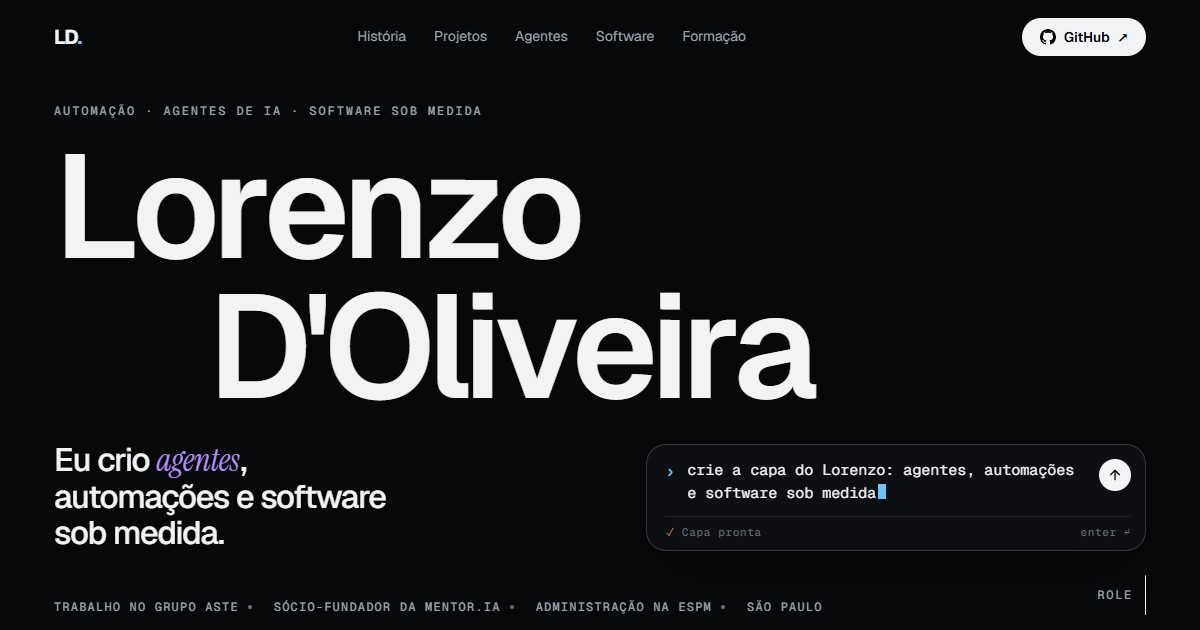
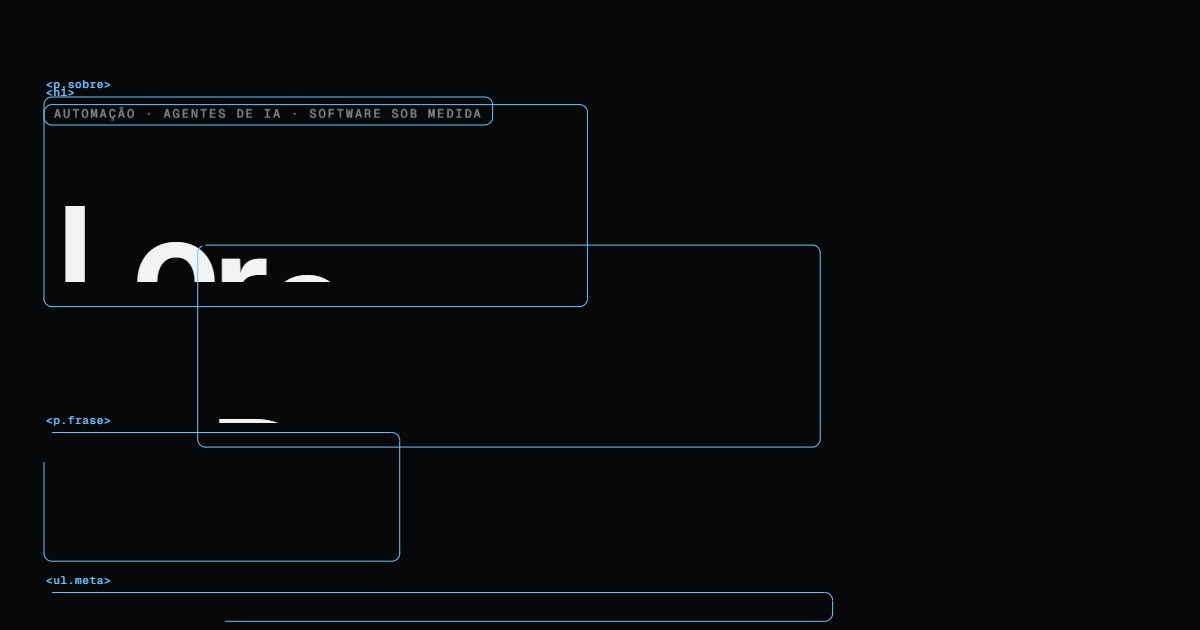
Capa sem a barra de prompt e cenas presas também em janela baixa
- A capa fica só com nome, frase e a linha de baixo
- No computador, as cenas prendem a rolagem a partir de 440px de altura
- Imagem de compartilhamento nova

diff --git a/js/main.js b/js/main.js
@@ -11,10 +11,10 @@
   const tem = (nome) => Boolean(window[nome]);
   const limitar = (valor, min = 0, max = 1) => Math.min(max, Math.max(min, valor));
   const SIMBOLOS = '01<>/{}#_=+';
-  // Cenas presas na rolagem só quando a tela tem altura para isso. Em tela baixa (celular
-  // deitado), a mesma animação acompanha a rolagem sem prender.
-  const ALTA = '(min-height: 561px)';
-  const BAIXA = '(max-height: 560px)';
+  // Cenas presas na rolagem: no computador a partir de 440px de altura (janela baixa também
+  // prende); no celular a partir de 561px. Abaixo disso a animação acompanha a rolagem sem prender.
+  const ALTA = '(min-width: 900px) and (min-height: 440px), (min-height: 561px)';
+  const BAIXA = '(max-height: 439px), (max-width: 899px) and (max-height: 560px)';
 
   // Cada bloco roda isolado: se um quebrar, o resto da página continua.
   function rodar(nome, fn) {
@@ -225,26 +225,12 @@
   }
 
   /* =========================================================================
-     CAPA: um pedido se digita na barra de prompt e, ao enviar, a página monta
-     o resto da capa (moldes em linha que viram o conteúdo de verdade).
+     CAPA: moldes em linha se desenham onde cada parte vai ficar e o conteúdo
+     de verdade sobe dentro deles.
      ========================================================================= */
   function capa() {
     const palco = $('.capa__palco');
-    const prompt = $('.prompt');
-    const digitado = $('.prompt__digitado');
-    const estado = $('.prompt__estado-texto');
-    const giro = $('.prompt__giro');
-    const enviar = $('.prompt__enviar');
     const molde = $('.capa__molde');
-    const pedido = digitado.textContent;
-    // Placeholder que gira depois de pronta (base: "AI Prompt Input" do 21st.dev)
-    const SUGESTOES = [
-      'automatize o contas a pagar',
-      'monte um time de agentes de marketing',
-      'atualize o relatório às 02:00',
-      'lance os boletos no ERP com 8 travas',
-      'crie um software sob medida',
-    ];
     if (reduzir) return;
 
     // Rolagem: a capa vira um cartão que recua enquanto a história sobe por cima
@@ -293,59 +279,19 @@
     const retangulos = $$('rect', molde);
     const rotulos = $$('text', molde);
 
-    // Indicador de "pensando" do Claude Code
-    const GIROS = ['·', '✢', '✳', '✶', '✻', '✽', '✻', '✶', '✳', '✢'];
-    let giroAtivo = null;
-    const girar = (ligar) => {
-      clearInterval(giroAtivo);
-      if (!ligar) return;
-      let i = 0;
-      giroAtivo = setInterval(() => { giro.textContent = GIROS[i++ % GIROS.length]; }, 110);
-    };
-
-    // Estado inicial: só a barra de prompt, no meio da tela
-    const caixa = prompt.getBoundingClientRect();
-    const escala = window.innerWidth >= 900 ? 1.12 : 1;
-    const dx = window.innerWidth / 2 - (caixa.left + caixa.width / 2);
-    const dy = window.innerHeight / 2 - (caixa.top + caixa.height / 2);
+    // Estado inicial: tudo escondido; os moldes se desenham e o conteúdo sobe dentro deles
     const letras = nome.map((s) => s.chars);
     gsap.set(letras.flat(), { yPercent: 118 });
     gsap.set(frase.words, { yPercent: 110 });
     gsap.set(['.capa__sobre', '.capa__meta li', '.capa__rolar', '.topo > *'], { autoAlpha: 0, y: 16 });
-    gsap.set(prompt, { x: dx, y: dy, scale: escala });
     gsap.set(retangulos, { drawSVG: '0%' });
     gsap.set(rotulos, { autoAlpha: 0 });
-    prompt.classList.add('prompt--vazio');
-    digitado.textContent = '';
-    estado.textContent = 'Claude Code';
 
-    const contador = { n: 0 };
-    const tDigitar = pedido.length * 0.026;
-    const tEnviar = 0.55 + tDigitar + 0.25;
-    const tMontar = tEnviar + 0.55;
+    const tMontar = 0.55;
     const entrada = gsap.timeline({ delay: 0.25, defaults: { ease: EASE } });
     entrada
-      .fromTo(prompt, { autoAlpha: 0 }, { autoAlpha: 1, duration: 0.6 }, 0)
-      .fromTo(prompt, { y: dy + 26 }, { y: dy, duration: 0.9 }, 0)
-      .to(contador, {
-        n: pedido.length,
-        duration: tDigitar,
-        ease: 'none',
-        onUpdate: () => {
-          digitado.textContent = pedido.slice(0, Math.round(contador.n));
-          prompt.classList.toggle('prompt--vazio', contador.n < 1);
-        },
-      }, 0.55)
-      .to(enviar, { scale: 0.78, duration: 0.12, ease: 'power2.in' }, tEnviar - 0.1)
-      .to(enviar, { scale: 1, duration: 0.6, ease: 'back.out(3)' }, tEnviar + 0.02)
-      .add(() => {
-        prompt.classList.add('prompt--enviado');
-        estado.textContent = 'Montando a capa…';
-        girar(true);
-      }, tEnviar)
-      .to(retangulos, { drawSVG: '100%', duration: 0.75, stagger: 0.07, ease: 'power2.inOut' }, tEnviar + 0.1)
-      .to(rotulos, { autoAlpha: 1, duration: 0.25, stagger: 0.07 }, tEnviar + 0.15)
-      .to(prompt, { x: 0, y: 0, scale: 1, duration: 1.4 }, tMontar)
+      .to(retangulos, { drawSVG: '100%', duration: 0.75, stagger: 0.07, ease: 'power2.inOut' }, 0.1)
+      .to(rotulos, { autoAlpha: 1, duration: 0.25, stagger: 0.07 }, 0.15)
       .to('.capa__sobre', { autoAlpha: 1, y: 0, duration: 0.9 }, tMontar + 0.1)
       .to(letras[0], { yPercent: 0, duration: 1.2, stagger: 0.035 }, tMontar + 0.15)
       .to(letras[1], { yPercent: 0, duration: 1.2, stagger: 0.035 }, tMontar + 0.3)
@@ -355,54 +301,15 @@
       .to(retangulos, { autoAlpha: 0, duration: 0.6, stagger: 0.05, ease: 'power1.out' }, tMontar + 1.0)
       .to(rotulos, { autoAlpha: 0, duration: 0.4 }, tMontar + 1.0)
       .add(() => {
-        girar(false);
-        giro.textContent = '✓';
-        estado.textContent = 'Capa pronta';
-        prompt.classList.remove('prompt--enviado');
-      }, tMontar + 1.3)
-      .add(() => {
         // Desfaz as divisões: o texto volta a ter o espaçamento original das letras
         nome.forEach((s) => s.revert());
         frase.revert();
         gsap.set(linhas, { clearProps: 'overflow,paddingTop,marginTop,paddingBottom,marginBottom' });
         molde.remove();
-      }, tMontar + 2.2)
-      .add(sugestoes, tMontar + 3.4);
+      }, tMontar + 2.2);
 
     // Se a página abriu no meio (voltou de outra página), a capa já aparece pronta
     if (window.scrollY > 40) entrada.progress(1);
-
-    function sugestoes() {
-      giro.textContent = '✻';
-      estado.textContent = 'Feito com Claude Code';
-      const lista = [...SUGESTOES, pedido];
-      const ciclo = gsap.timeline({ repeat: -1 });
-      lista.forEach((texto, i) => {
-        const antes = i === 0 ? pedido : lista[i - 1];
-        const apagar = { n: antes.length };
-        const escrever = { n: 0 };
-        ciclo
-          .to(apagar, {
-            n: 0,
-            duration: Math.min(0.7, antes.length * 0.014),
-            ease: 'none',
-            delay: 2.4,
-            onUpdate: () => { digitado.textContent = antes.slice(0, Math.round(apagar.n)); },
-          })
-          .to(escrever, {
-            n: texto.length,
-            duration: texto.length * 0.034,
-            ease: 'none',
-            onUpdate: () => { digitado.textContent = texto.slice(0, Math.round(escrever.n)); },
-          }, '+=0.3');
-      });
-      // Só gira com a capa na tela
-      ScrollTrigger.create({
-        start: 0,
-        end: () => window.innerHeight,
-        onToggle: (self) => (self.isActive ? ciclo.resume() : ciclo.pause()),
-      });
-    }
   }
 
   /* =========================================================================

diff --git a/css/estilo.css b/css/estilo.css
@@ -296,13 +296,7 @@ code { font-family: var(--mono); }
 }
 .capa__linha { display: block; white-space: nowrap; }
 .capa__linha--2 { padding-left: 1.05em; }
-.capa__base {
-  display: grid;
-  grid-template-columns: 1fr minmax(320px, 500px);
-  align-items: end;
-  gap: 28px 56px;
-  margin-top: clamp(28px, 5vh, 52px);
-}
+.capa__base { margin-top: clamp(28px, 5vh, 52px); }
 .capa__frase {
   max-width: 17ch;
   font-size: clamp(24px, 2.7vw, 42px);
@@ -365,79 +359,16 @@ code { font-family: var(--mono); }
 .capa__molde text { font: 500 11px var(--mono); fill: var(--azul); letter-spacing: 0.06em; }
 .capa__sombra { position: absolute; inset: 0; z-index: 4; background: #000; opacity: 0; pointer-events: none; }
 
-/* Barra de prompt no estilo Claude Code (base: "AI Prompt Input" do 21st.dev) */
-.prompt {
-  position: relative;
-  z-index: 5;
-  display: block;
-  width: 100%;
-  justify-self: end;
-  padding: 14px 14px 12px 18px;
-  border: 1px solid var(--linha-forte);
-  border-radius: 20px;
-  background: #0d0f12;
-  box-shadow: 0 24px 60px -30px rgba(0, 0, 0, 0.9);
-  transition: border-color 0.4s;
-}
-.prompt:hover { border-color: rgba(108, 196, 255, 0.55); }
-.prompt__caixa { display: flex; align-items: flex-start; gap: 12px; }
-.prompt__sinal { flex: none; font: 500 17px/1.5 var(--mono); color: var(--azul); }
-.prompt__texto {
-  flex: 1;
-  min-width: 0;
-  min-height: 1.5em;
-  font: 400 15px/1.5 var(--mono);
-  color: var(--texto);
-}
-.prompt__cursor {
-  display: inline-block;
-  width: 8px;
-  height: 1.05em;
-  margin-left: 2px;
-  vertical-align: -0.16em;
-  background: var(--azul);
-  animation: pisca 1s steps(1) infinite;
-}
-@keyframes pisca { 50% { opacity: 0; } }
-.prompt__enviar {
-  flex: none;
-  display: grid;
-  place-items: center;
-  width: 32px;
-  height: 32px;
-  border-radius: 50%;
-  background: var(--texto);
-  color: var(--fundo);
-  transition: background-color 0.3s, color 0.3s;
-}
-.prompt--vazio .prompt__enviar { background: var(--fundo-3); color: var(--texto-3); }
-.prompt--enviado .prompt__enviar { background: var(--azul); color: var(--escuro); }
-.prompt__rodape {
-  display: flex;
-  justify-content: space-between;
-  gap: 12px;
-  margin-top: 12px;
-  padding-top: 10px;
-  border-top: 1px solid var(--linha);
-  font: 500 11px/1 var(--mono);
-  letter-spacing: 0.06em;
-  color: var(--texto-3);
-}
-.prompt__estado { display: inline-flex; align-items: center; gap: 6px; }
-.prompt__giro { display: inline-block; width: 1em; color: #d97757; text-align: center; }
-
 /* Fallback: se o JavaScript não montar a capa, ela aparece sozinha */
 .anima .capa__sobre,
 .anima .capa__nome,
 .anima .capa__frase,
-.anima .prompt,
 .anima .capa__rodape,
 .anima .topo { animation: reserva 0.6s 1.8s both; }
 @keyframes reserva { from { opacity: 0; } to { opacity: 1; } }
 .capa-js .capa__sobre,
 .capa-js .capa__nome,
 .capa-js .capa__frase,
-.capa-js .prompt,
 .capa-js .capa__rodape,
 .capa-js .topo { animation: none; }
 
@@ -2125,8 +2056,6 @@ html:not(.anima) .sites__progresso { display: none; }
 @media (max-width: 899px) {
   .capa__palco { padding-top: 92px; }
   .capa__linha--2 { padding-left: 0.5em; }
-  .capa__base { grid-template-columns: 1fr; }
-  .prompt { max-width: 560px; justify-self: start; }
   .capa__rolar { display: none; }
 
   .historia { border-radius: 26px 26px 0 0; }
@@ -2199,8 +2128,6 @@ html:not(.anima) .sites__progresso { display: none; }
   .capa__nome { font-size: 16.4vw; }
   .capa__linha--2 { padding-left: 0; }
   .capa__frase { font-size: 25px; }
-  .prompt { padding: 12px 12px 10px 14px; border-radius: 16px; }
-  .prompt__texto { font-size: 13.5px; }
   .capa__meta { gap: 6px 16px; font-size: 11px; }
   .capa__meta li { gap: 16px; }
   .capa__meta li + li::before { margin-left: -10px; }
@@ -2240,11 +2167,8 @@ html:not(.anima) .sites__progresso { display: none; }
   .capa { min-height: 0; }
   .capa__palco { padding: 58px var(--margem) 14px; }
   .capa__nome { margin-top: 10px; font-size: min(10.5vw, 16svh); }
-  .capa__base { grid-template-columns: 1fr 1fr; margin-top: 16px; gap: 20px; }
+  .capa__base { margin-top: 16px; }
   .capa__frase { font-size: 20px; }
-  .prompt { padding: 10px 12px 8px; }
-  .prompt__texto { font-size: 12.5px; }
-  .prompt__rodape { margin-top: 8px; padding-top: 6px; }
   .capa__rodape { margin-top: 12px; }
   .capa__meta { font-size: 10.5px; }
 
@@ -2280,5 +2204,5 @@ html:not(.anima) .sites__progresso { display: none; }
 
 /* ---------- Movimento reduzido ---------- */
 @media (prefers-reduced-motion: reduce) {
-  .capa__rolar i::after, .prompt__cursor { animation: none; }
+  .capa__rolar i::after { animation: none; }
 }

diff --git a/index.html b/index.html
@@ -58,19 +58,6 @@
           </h1>
           <div class="capa__base">
             <p class="capa__frase" data-molde="p.frase">Eu crio <em class="ia">agentes</em>, automações e software sob medida.</p>
-            <a class="prompt" href="#projetos" aria-label="Ver os projetos" data-cursor="ver">
-              <span class="prompt__caixa">
-                <span class="prompt__sinal" aria-hidden="true">›</span>
-                <span class="prompt__texto" aria-hidden="true"><span class="prompt__digitado">crie a capa do Lorenzo: agentes, automações e software sob medida</span><i class="prompt__cursor"></i></span>
-                <span class="prompt__enviar" aria-hidden="true">
-                  <svg viewBox="0 0 24 24" width="16" height="16" fill="none" stroke="currentColor" stroke-width="2" stroke-linecap="round" stroke-linejoin="round"><path d="M12 19V5M5.5 11.5 12 5l6.5 6.5"/></svg>
-                </span>
-              </span>
-              <span class="prompt__rodape" aria-hidden="true">
-                <span class="prompt__estado"><span class="prompt__giro">✻</span> <span class="prompt__estado-texto">Feito com Claude Code</span></span>
-                <span class="prompt__dica">enter ↵</span>
-              </span>
-            </a>
           </div>
         </div>
         <div class="capa__rodape">
